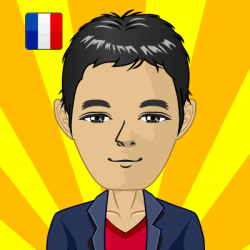
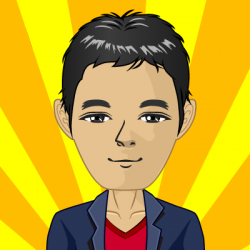
add multi-language radio buttons

Changed region(s): [[0.084, 0.028, 0.252, 0.224]]

diff --git a/index.html b/index.html
@@ -44,13 +44,23 @@ TODO:
 
 
                     <!----------------------------------------------------------------- LANGUAGE Selector ----->
-                    <div class="row selector">
-                        <button class="flag-btn" onclick="document.body.className='en'">
-                            <img src="https://www.countryflags.io/GB/shiny/64.png" alt="English" title="English" class="flag-img">
-                        </button>
-                        <button autofocus class="flag-btn" onclick="document.body.className='fr'">
-                            <img src="https://www.countryflags.io/FR/shiny/64.png" alt="Français" title="Français" class="flag-img">
-                        </button>
+                    <div id="radios" class="selector">
+
+                      <input id="rad1" type="radio" name="radioBtn">
+                      <label class="labels" for="rad1">
+                        <img src="https://www.countryflags.io/GB/shiny/64.png" alt="English" title="English" class="flag-img" onclick="document.body.className='en'">
+                      </label>
+
+                      <input id="rad2" type="radio" name="radioBtn" checked>
+                      <label class="labels" for="rad2">
+                        <img src="https://www.countryflags.io/FR/shiny/64.png" alt="Français" title="Français" class="flag-img" onclick="document.body.className='fr'">
+                      </label>
+
+                      <input id="rad3" type="radio" name="radioBtn">
+                      <label class="labels" for="rad3">
+                        <img src="https://www.countryflags.io/ES/shiny/64.png" alt="Español" title="Español" class="flag-img">
+                      </label>
+                      <div id="bckgrnd"></div>
                     </div>
 
                     <div class="logo">
@@ -154,7 +164,7 @@ TODO:
                                 <br> Feel free to contact me for more information.<br><br>
                             </span>
                             <span lang="fr"><h4>Bienvenue!</h4> 
-                                Vous trouverez ici une de projecs et d'astuces pour vous initier au Big Data.
+                                Vous trouverez ici une de série de projets et d'astuces pour vous initier au Big Data.
                                 <br> N'hésitez pas à me contacter pour plus d'infos.<br><br>
                             </span>
                         <div class="row">

diff --git a/css/portfolio.css b/css/portfolio.css
@@ -47,8 +47,7 @@ TODO:
 
 .selector {
 	margin-top: -40px;
-	margin-left: 100px;
-/*	height:30px;*/
+	margin-left: 50px;
 }
 
 body.en span[lang='fr'] {
@@ -60,14 +59,44 @@ body.fr span[lang='en'] {
 }
 
 .flag-img {
-	height:36px;
+	height:33px;
 	padding: 0px;
-    /*background: var(--blue-jeans);*/
+  	margin-top: -5px;
 }
-.flag-btn {
-	height:40px;
-    background: var(--bg-color);
+
+#radios {
+  position: relative;
+  background-color: var(--blue-jeans);
+  z-index: 5;
+  height: 26px;
 }
-.flag-btn:focus {
-	background:var(--button-color);
+input {
+  display: none;
+}
+#bckgrnd, .labels {
+  width: 50px;
+  height: 25px;
+  text-align: center;
+  display: inline-block;
+  margin-right: -3px;
+  cursor: pointer;
+}
+#bckgrnd {
+  position: absolute;
+  left: 0;
+  top: 0;
+}
+input:checked ~ #bckgrnd {
+  outline: 1px solid var(--button-color);
+  transition: transform 0.5s ease-in-out;
+}
+
+#rad1:checked ~ #bckgrnd {
+  transform: translateX(0);
+}
+#rad2:checked ~ #bckgrnd {
+  transform: translateX(51px);
+}
+#rad3:checked ~ #bckgrnd {
+  transform: translateX(102px);
 }

diff --git a/css/template.css b/css/template.css
@@ -30,6 +30,7 @@ https://templatemo.com/tm-555-upright
 	--sidebar-color:#011E54;
 }
 
+    background: var(--blue-jeans);
 html, body { overflow-x: hidden; }
 body { 
 	font-family: 'Kumbh Sans', sans-serif; 
